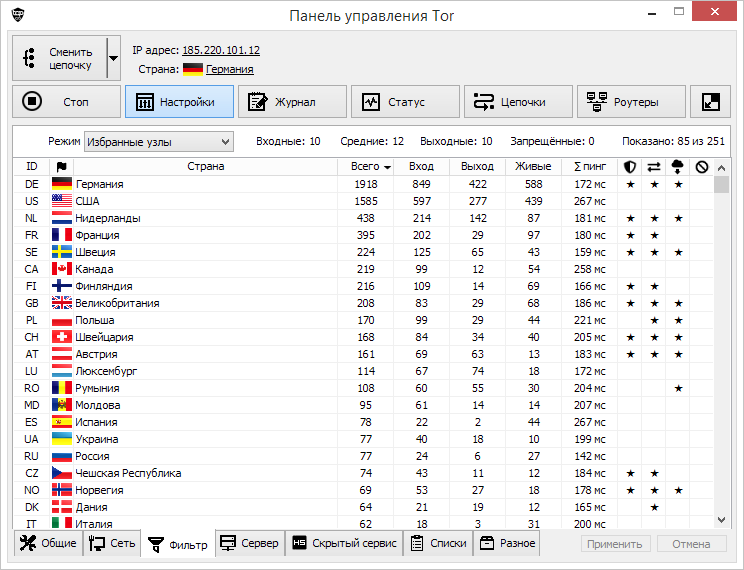
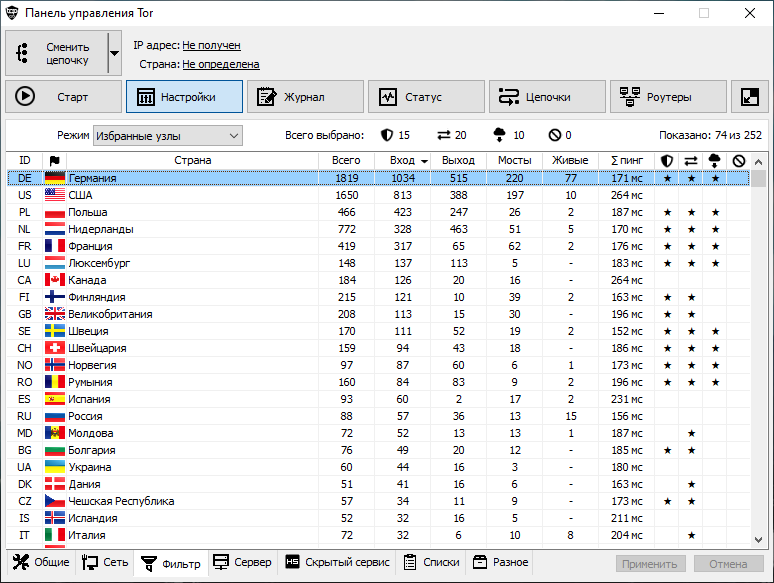
Update descriptions and screenshots

Changed region(s): [[0.0, 0.0, 1.0, 1.0], [0.371, 0.0, 0.6183, 0.0596], [0.8347, 0.0, 0.8656, 0.0298]]

diff --git a/README.ru.md b/README.ru.md
@@ -40,7 +40,7 @@
 * Операционная система: Windows 7 и выше
 * Версия Tor: 0.4.0.5 и выше
 
-    > Примечание: программа может работать на Windows XP и Vista, но последняя поддерживаемая версия Tor для этих операционных систем - 0.4.4.6, а подключаемые транспорты нужно пересобрать в Gоlang версии 1.10 и ниже.
+    > Примечание: программа может работать на Windows XP и Vista, однако tor и подключаемые транспорты из официального Tor Expert Bundle больше не поддерживают эти операционные системы.
 <p align="right">[<a href="#readme-top">↑ Вверх</a>]</p>
 
 ## Особенности программы
@@ -51,6 +51,7 @@
 * Возможность управлять скрытыми сервисами
 * Возможность использовать избранные сторожевые узлы в качестве Vanguards
 * Возможность добавлять и настраивать запуск подключаемых транспортов
+* Возможность извлечения отображаемых данных в виде текстовых списков
 * Сохранение/загрузка своих списков входных, промежуточных, выходных и запрещённых узлов
 * Автоматический подбор узлов на основе пользовательских настроек
 * Запуск нескольких копий программы с разными профилями
@@ -60,6 +61,7 @@
 * Удобная система фильтрации, поиска и сортировки, помогающая выбрать наиболее подходящие вам узлы
 * Просмотр и закрытие цепочек/активных соединений
 * Отображение статистики по трафику в виде графика и цифровых данных
+* Удобная система управления мостами (кэширование, исключение неподходящих, выбор приоритета)
 * Программа портативная, установка не требуется, где её запустили там она и работает
 * Поддержка визуальных тем оформления
 * Мультиязычный интерфейс с возможностью добавлять новые локализации
@@ -88,7 +90,7 @@
 <p align="right">[<a href="#readme-top">↑ Вверх</a>]</p>
 
 ## Сборка проекта
-1. Установите интегрированную среду разработки [Delphi 10.4.2 CE](https://www.embarcadero.com/ru/products/delphi/starter/free-download)
+1. Установите интегрированную среду разработки [Delphi 11.3 CE](https://www.embarcadero.com/ru/products/delphi/starter/free-download)
     > Внимание! Сборка проекта в других версиях Delphi не тестировалась и может привести к самым неожиданным результатам
 2. Загрузите и установите в Delphi библиотеку [Ararat Synapse](https://sourceforge.net/p/synalist/code/HEAD/tree/trunk/)
 
@@ -96,13 +98,11 @@
 	
       `C:\Program Files (x86)\Embarcadero\Studio\21.0\source\Synapse`
 	  
-    * Откройте настройки Delphi и добавьте путь **$(BDS)\source\Synapse** в списки **Library path** и **Browsing path**
+    * Откройте настройки Delphi и добавьте путь **$(BDS)\source\Synapse** в списки **Library path** и **Browsing path** для платформ: Windows 32-bit и Windows 64-bit
 	
-      `[Tools] → [Options] → [Language] → [Delphi] → [Library] → [Windows 32-bit]/[Windows 64-bit]`
+      `[Tools] → [Options] → [Language] → [Delphi] → [Library]`
 	  
 3. Откройте файл **TorControlPanel.dproj**, выберите платформу и скомпилируйте проект нажатием кнопки **[Run]**
-4. Запустите файл **TCP-RSP-31045-PATCHER.exe** для исправления ошибки Delphi 10.4 из-за которой неправильно ображаются кнопки в Windows 7 при включённом Aero.
-    > Внимание! Для создания патча использовалась программа [AT4RE-Patcher-v0.7.6](https://github.com/anomous/AT4RE-Patcher-Windows). Созданные в ней патчи определяются некоторыми антивирусами как потенциально-опасные приложения, так как используются "хакерские" методы модификации исполняемых файлов.
 <p align="right">[<a href="#readme-top">↑ Вверх</a>]</p>
 
 ## Конфиденциальность
@@ -116,5 +116,6 @@
 * [Спецификации и предложения Tor](https://gitlab.torproject.org/tpo/core/torspec)
 * [Сервер дистрибутивов проекта Tor Project](https://dist.torproject.org/)
 * [Файловый архив проекта Tor Project](https://archive.torproject.org/tor-package-archive/)
-* [Свежие GeoIp-базы](https://gitlab.torproject.org/tpo/network-health/metrics/geoip-data/-/packages)
+* [Свежие GeoIp-базы](https://tpo.pages.torproject.net/network-health/metrics/geoip-data/)
+* [Актуальная версия Tor Expert Bundle](https://www.torproject.org/ru/download/tor/)
 <p align="right">[<a href="#readme-top">↑ Вверх</a>]</p>

diff --git a/README.md b/README.md
@@ -40,7 +40,7 @@
 * Operating system: Windows 7 and above
 * Tor version: 0.4.0.5 and above
 
-    > Note: The program can run on Windows XP and Vista, but the latest supported version of Tor for these operating systems is 0.4.4.6, and pluggable transports need to be rebuilt in Golang version 1.10 and below.
+    > Note: the program can run on Windows XP and Vista, however tor and pluggable transports from the official Tor Expert Bundle no longer support these operating systems
 <p align="right">[<a href="#readme-top">↑ Up</a>]</p>
 
 ## Program Features
@@ -51,7 +51,8 @@
 * Ability to manage hidden services
 * Ability to use selected Entry nodes as Vanguards
 * Ability to add and configure the launch of pluggable transports
-* Saving/Loading your lists of Entry, Middle, Exit and Exlude nodes
+* Ability to extract displayed data as text lists
+* Saving/Loading your lists of Entry, Middle, Exit and Exсlude nodes
 * Automatic nodes selection based on user settings
 * Running multiple copies of the program with different profiles
 * Showing the Tor message log and saving it to a file
@@ -60,6 +61,7 @@
 * A convenient filtering, searching and sorting system that helps you choose the most suitable nodes
 * Viewing and closing circuits/active connections
 * Displaying traffic statistics in the form of a graph and digital data
+* Convenient bridge management system (caching, exclusion of unsuitable ones, priority selection)
 * The program is portable, installation is not required, where it was launched, it works there
 * Support for visual themes
 * Multilingual interface with the ability to add new localizations
@@ -88,7 +90,7 @@
 <p align="right">[<a href="#readme-top">↑ Up</a>]</p>
 
 ## Project Build
-1. Install the IDE [Delphi 10.4.2 CE](https://www.embarcadero.com/ru/products/delphi/starter/free-download)
+1. Install the IDE [Delphi 11.3 CE](https://www.embarcadero.com/en/products/delphi/starter/free-download)
     > Warning! Building the project in other versions of Delphi has not been tested and may lead to the most unexpected results.
 2. Download and install the Delphi library [Ararat Synapse](https://sourceforge.net/p/synalist/code/HEAD/tree/trunk/)
 
@@ -96,13 +98,11 @@
 	
       `C:\Program Files (x86)\Embarcadero\Studio\21.0\source\Synapse`
 	  
-    * Open the Delphi Options and add the path **$(BDS)\source\Synapse** to the lists **Library path** and **Browsing path**
+    * Open the Delphi Options and add the path **$(BDS)\source\Synapse** to the lists **Library path** and **Browsing path** for platforms: Windows 32-bit and Windows 64-bit
 	
-      `[Tools] → [Options] → [Language] → [Delphi] → [Library] → [Windows 32-bit]/[Windows 64-bit]`
+      `[Tools] → [Options] → [Language] → [Delphi] → [Library]
 	  
 3. Open the file **TorControlPanel.dproj**, select platform and compile the project by pressing the **[Run]** button
-4. Run the file **TCP-RSP-31045-PATCHER.exe** to fix the Delphi 10.4 bug which causes the buttons to be displayed incorrectly in Windows 7 when Aero is enabled.
-    > Warning! The [AT4RE-Patcher-v0.7.6](https://github.com/anomous/AT4RE-Patcher-Windows) program was used to create the patch. The patches created in it are defined by some antiviruses as potentially dangerous applications, since "hacker" methods of modifying executable files are used.
 <p align="right">[<a href="#readme-top">↑ Up</a>]</p>
 
 ## Privacy
@@ -116,5 +116,6 @@ This program is free software and distributed under the [MIT license](https://gi
 * [Tor Specifications and Proposals](https://gitlab.torproject.org/tpo/core/torspec)
 * [Tor Project Distribution Server](https://dist.torproject.org/)
 * [Tor Project File Archive](https://archive.torproject.org/tor-package-archive/)
-* [Fresh GeoIP databases](https://gitlab.torproject.org/tpo/network-health/metrics/geoip-data/-/packages)
+* [Fresh GeoIP databases](https://tpo.pages.torproject.net/network-health/metrics/geoip-data/)
+* [Current version of Tor Expert Bundle](https://www.torproject.org/download/tor/)
 <p align="right">[<a href="#readme-top">↑ Up</a>]</p>
